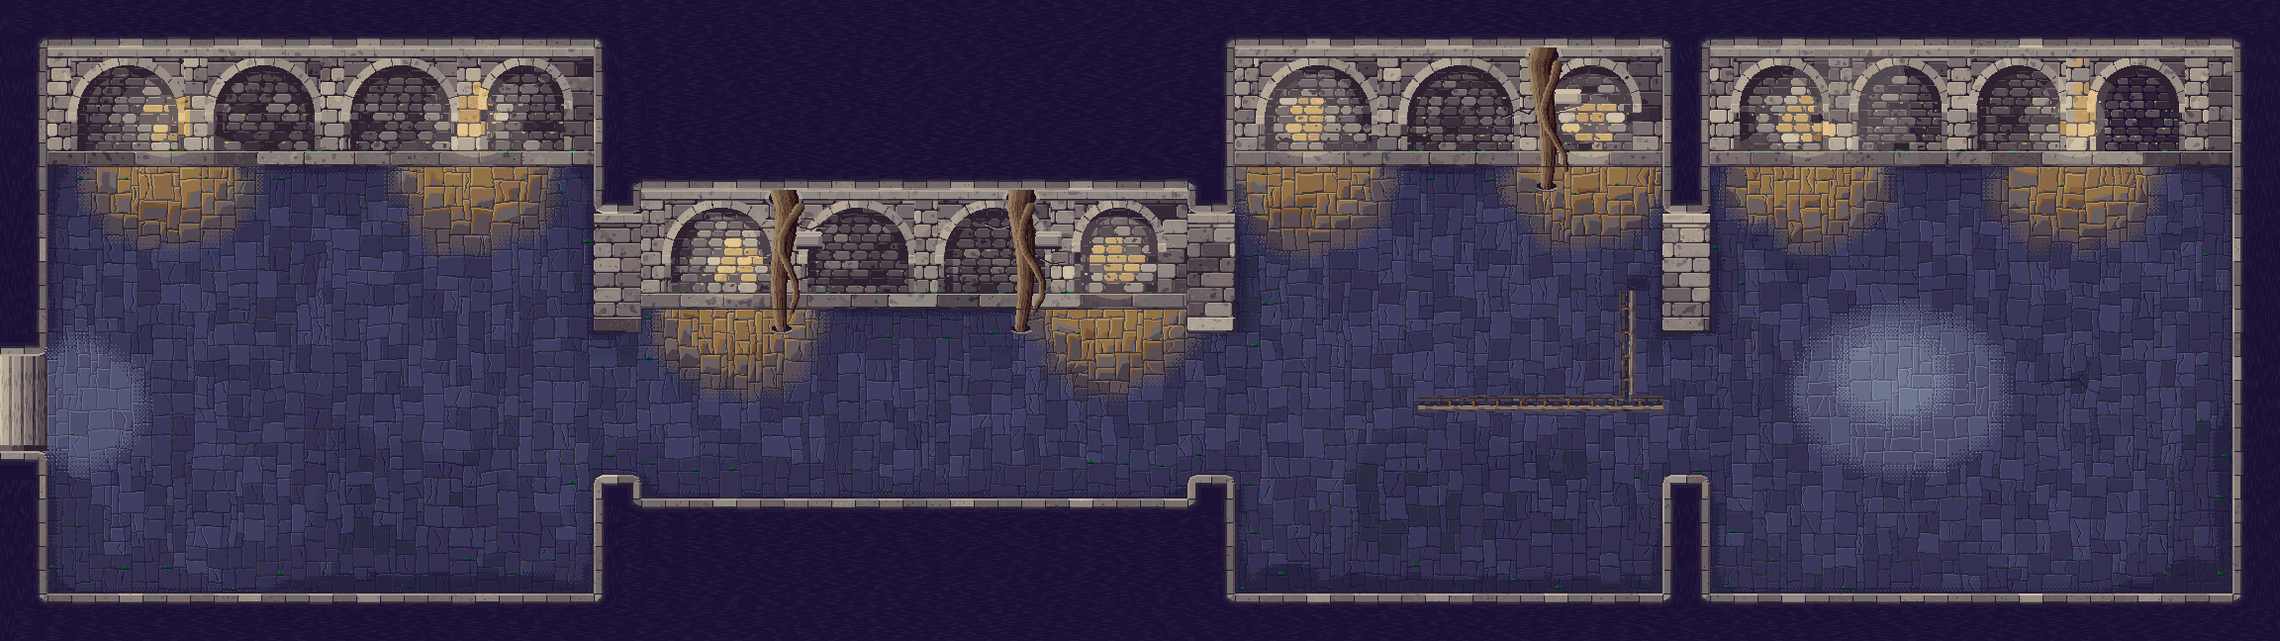
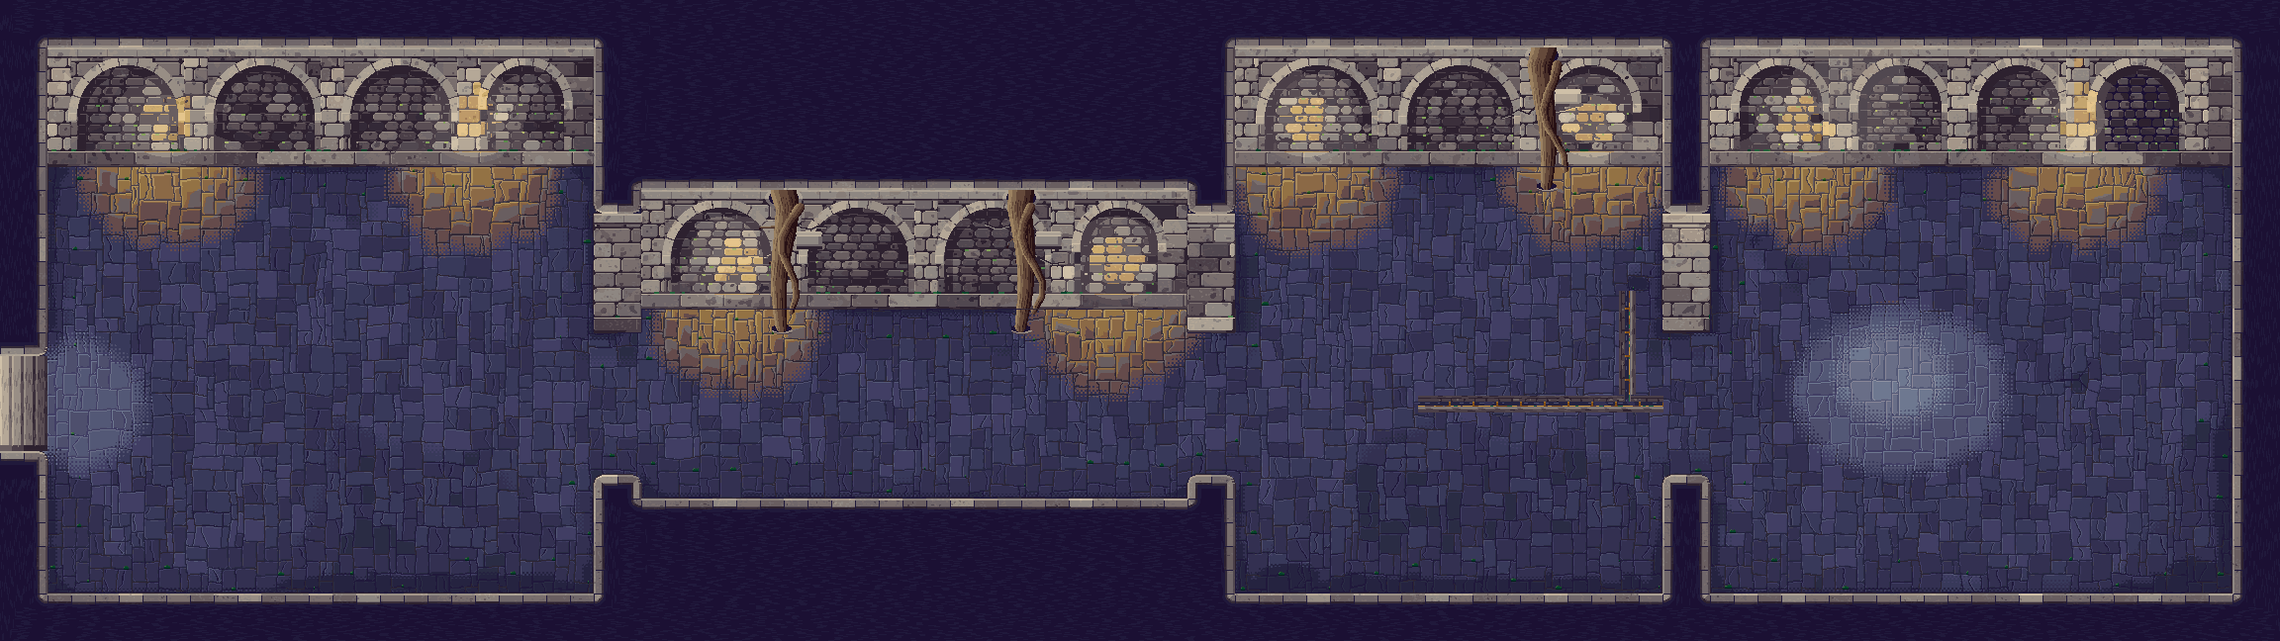
Undercroft round 10: lamplit_dusk middle band, kerb edge in four steps, C-8 lift split (calm guard stopped)
Claude A's rulings on round 9's three stops.

- G-38 (approved): lamplit_dusk, #654B4B (OKLCH 0.441 / 0.035 / 19), one
  named-only tone of lamplit's (kind sibling-tone:lamplit: its rule ramp, no
  edge, no siblings, not a family), added to house_palette.py,
  house-palette.json and the native palette (NAMED_ONLY), noted in
  house-style.md. The painter uses tone 3 only, for the middle band's bodies
  (rung 3, and rung 4's warm sibling) and rung 4's arrises. Middle band
  (0.65 to 1.05 H): median C 0.035 at every torch; the band means walk 61,
  53, 43, 37, 21, 350, 318, 293 below torch 1, per-band median C 0.031 or
  more. The pilot golden changes its manifest hash only; the Thornback's
  pictures are byte-identical (manifest hash only); art-repro passes.
- C-8: raster.lone_split also counts as copied a texel whose code is the
  ground's at the same place on the same ramp, the record's ground_lift
  tones up. channel_lit: own 0.99 % (88 of 8,863 interior texels), copied
  0.06 %; declared copies_ground with ground_lift 1. check:kit's drawn
  villages now pass.
- North kerb: the lit top edge steps lamplit_warm 4, lamplit 4,
  lamplit_cool 4, then its own tone; its commonest colour is 27 to 33 %.
- The calm guard is unchanged: on Claude A's residual measure every
  must-fail fixture passes (round 4's rings 4.91, hatching 1.02, round 5's
  pool 4.09 and shade 1.50, round 6's rug 3.72, against a limit of 6.96 or
[…]

diff --git a/scripts/review/test_undercroft_craft.py b/scripts/review/test_undercroft_craft.py
@@ -339,32 +339,35 @@ class RealFloorTint(unittest.TestCase):
             (self.assertEqual if name == 'r9' else self.assertGreater)(n, 0, name)
 
     def test_the_lit_kerb_keeps_its_marks(self):
-        # G-36 (round 9): under each cup the kerb is lit in steps that keep its own marks, never one flat code: its
-        # commonest colour at most 45 % of the strip (round 7, unlit: 22 to 43 %) and the lamp's colour on at most 35 %.
-        # Round 8's kerb by torch 8 was one tan code over 93 % of it
+        # G-36 (round 9; Claude A's round 10 ruling): the kerb's lit top edge under each cup (the plinth's top row, 67
+        # texels) steps from the flame and keeps its marks: no colour over 35 % of it. (The plinth's face below keeps the
+        # painter's own drawing, which unlit already holds 34 to 58 % in one code.) Round 8's edge by torch 8 was one tan
+        # code over all of it
         for cx, foot in self._torches():
             with self.subTest(torch=cx):
-                top, lampy = _kerb_strip(self.painted[foot - 15:foot - 2, cx - 33:cx + 34])
-                self.assertLessEqual(top, 0.45)
-                self.assertLessEqual(lampy, 0.35)
+                self.assertLessEqual(_kerb_strip(self.painted[foot - 15:foot - 14, cx - 33:cx + 34])[0], 0.35)
         a = np.asarray(Image.open(os.path.join(FIXTURES, 'undercroft_r8_kerb_t8.png')).convert('RGB'))
-        top, lampy = _kerb_strip(a[13:26, 7:74])
-        self.assertFalse(top <= 0.45 and lampy <= 0.35, (top, lampy))
+        self.assertGreater(_kerb_strip(a[13:14, 7:74])[0], 0.35)
 
-    def test_the_middle_band_guard_sees_round8(self):
-        # G-38: the pool's middle band (0.65 to 1.05 H below the wall's foot) at median OKLCH C 0.030 to 0.045. Round 8's
-        # was grey stone (C 0.018 to 0.022) and fails. The committed floor's check waits on Claude A's ruling on a
-        # mid-chroma warm tone (test_the_middle_band_is_warm_stone, skipped)
+    def test_the_middle_band_is_warm_stone(self):
+        # G-38 (Claude A's round 10 ruling): the pool's middle band (0.65 to 1.05 H below the wall's foot) at median OKLCH C
+        # 0.030 to 0.045, on lamplit_dusk; band by band (0.1 H) from the heart out to the shade its per-texel median C
+        # stays at 0.025 or more and the hue of its mean colour walks the short way, down through about 20 and 346,
+        # never by a neutral grey. Round 8's middle band was grey stone (C 0.018) and fails
+        for cx, foot in self._torches():
+            with self.subTest(torch=cx):
+                C, _ = _middle_band(self.painted, self.f['paint'], cx, foot)
+                self.assertTrue(0.030 <= C <= 0.045, C)
+                walk = _hue_walk(self.painted, self.f['paint'], cx, foot)
+                self.assertGreaterEqual(min(c for _, c, _ in walk), 0.025, walk)
+                hs = [hh for _, _, hh in walk]
+                steps = [((a - b + 180) % 360) - 180 for a, b in zip(hs, hs[1:])]
+                self.assertTrue(all(-5 < st_ < 90 for st_ in steps), walk)   # down the hue circle, the short way
+                warm = [i for i, hh in enumerate(hs) if 5 <= hh <= 40]
+                self.assertTrue(warm and any(hh >= 300 for hh in hs[warm[0]:]), walk)   # through about 20, then 346
         a, fl, cx, foot = _r8_torch1()
         C, _ = _middle_band(a, fl, cx, foot)
         self.assertLess(C, 0.030, C)
-
-    @unittest.skip('G-38 waits on Claude A\'s ruling on a named-only mid-chroma warm tone (round 9)')
-    def test_the_middle_band_is_warm_stone(self):
-        for cx, foot in self._torches():
-            with self.subTest(torch=cx):
-                C, hue = _middle_band(self.painted, self.f['paint'], cx, foot)
-                self.assertTrue(0.030 <= C <= 0.045, (C, hue))
 
     def _torches(self):
         plan = json.load(open(os.path.join(ROOT, 'game', 'data', 'plans', 'undercroft.json')))
@@ -521,6 +524,20 @@ def _middle_band(rgb, floor, cx, foot):
     m = floor & (Y >= foot) & (d >= 0.65) & (d < 1.05)
     a_, b_ = C * np.cos(np.radians(h)), C * np.sin(np.radians(h))
     return float(np.median(C[m])), float(np.degrees(np.arctan2(b_[m].mean(), a_[m].mean())) % 360)
+
+
+def _hue_walk(rgb, floor, cx, foot):
+    """(distance, per-texel median C, hue of the mean colour) for 0.1 H bands of floor from 0.55 to 1.15 H below the
+    wall's foot under the cup (G-38's walk from the heart to the shade)."""
+    L, C, h = _oklch(rgb)
+    Y, X = np.mgrid[0:L.shape[0], 0:L.shape[1]]
+    d = np.hypot(X - cx, Y - foot) / 74
+    a_, b_ = C * np.cos(np.radians(h)), C * np.sin(np.radians(h))
+    out = []
+    for c0 in np.arange(0.55, 1.16, 0.1):
+        m = floor & (Y >= foot) & (np.abs(d - c0) < 0.05)
+        out.append((round(float(c0), 2), float(np.median(C[m])), float(np.degrees(np.arctan2(b_[m].mean(), a_[m].mean())) % 360)))
+    return out
 
 
 def _kerb_strip(rgb):
@@ -802,6 +819,36 @@ class OverlayLoneSplit(unittest.TestCase):
         o, g = self._pics(0.015, 0.0)
         own, same = raster.lone_split(o, g, 0, 0)
         self.assertGreater(own, 0.01)
+
+    def _lifted(self, fam_o, tone_shift, n_lone=60):
+        """A ground of slate 1 with lone slate 2 marks, and an overlay of the ground lifted a tone (slate 2, marks slate 3)
+        whose marks are drawn on `fam_o` `tone_shift` tones over the ground's."""
+        from scripts.art.native import palette as PAL
+        g = np.zeros((60, 60, 4), np.uint8)
+        g[..., :3] = PAL.rgb('slate', 1)
+        g[..., 3] = 255
+        o = g.copy()
+        o[..., :3] = PAL.rgb('slate', 2)
+        cells = [(y, x) for y in range(4, 56, 3) for x in range(4, 56, 3)][:n_lone]
+        for y, x in cells:
+            g[y, x, :3] = PAL.rgb('slate', 2)
+            o[y, x, :3] = PAL.rgb(fam_o, 2 + tone_shift)
+        return Image.fromarray(o, 'RGBA'), Image.fromarray(g, 'RGBA')
+
+    def test_the_grounds_marks_lifted_a_rung_count_as_copied(self):
+        from scripts.art.native import raster
+        o, g = self._lifted('slate', 1)
+        own, same = raster.lone_split(o, g, 0, 0, lift=1)
+        self.assertLessEqual(own, 0.01)
+        self.assertGreater(same, 0.01)
+
+    def test_marks_of_another_family_or_lift_are_the_overlays_own(self):
+        from scripts.art.native import raster
+        for fam, shift in (('dusk', 1), ('slate', 2)):
+            with self.subTest(family=fam, shift=shift):
+                o, g = self._lifted(fam, shift)
+                own, same = raster.lone_split(o, g, 0, 0, lift=1)
+                self.assertGreater(own, 0.01)
 
     def test_the_grounds_own_marks_count_against_the_ground(self):
         from scripts.art.native import raster

diff --git a/scripts/art/native/undercroft.py b/scripts/art/native/undercroft.py
@@ -169,9 +169,9 @@ RIM_FADE = 16                    # round 9 (G-37): the one dithered band of a to
 STEP_LIP = 0.5                   # ... and how much longer a flag's top under its lit lip holds the light (rungs)
 # round 8 (G-32): a torch's pool by Eastward 06's fire bowls, as (half-width, depth) in H from the wall's foot
 # under the cup: the heart, the warm band's outer edge and the light's reach (1.1 to 1.4 H, at most 2.5 H2)
-TORCH_HEART = (0.97, 0.56)
+TORCH_HEART = (0.96, 0.555)
 TORCH_WARM = (1.12, 0.9)
-TORCH_REACH = (1.3, 1.16)
+TORCH_REACH = (1.3, 1.12)
 LAMPLIT_ALL = 0.47               # lamplit on every lit texel's top within this of the cup's foot (H) ...
 LAMPLIT_TOPS = 0.8               # ... worn tops under the lips, shallower outwards, to here ...
 LAMPLIT_LIPS = 0.95              # ... the lips alone to here, and none beyond
@@ -430,6 +430,9 @@ SHADE_LIP = {0: (('void', 3),) * 3, 1: (('slate_warm', 1), ('slate_cool', 2), ('
 SHADE_WORN = {0: (('void', 3),) * 3, 1: (('slate', 1), ('slate_warm', 1), ('slate_cool', 1)),
               2: (('slate_warm', 1), ('slate_cool', 2), ('void', 4))}      # a lip worn down, half its catch-light
 SHADE_SE = {0: (('void', 1),) * 3, 1: (('void', 3), ('void', 3), ('void', 3)), 2: (('void', 3), ('slate', 1), ('void', 3))}
+# round 10 (G-38, Claude A's ruling): the middle band's bodies and arrises take lamplit_dusk, the lamp's dim light on
+# stone (#654B4B, OKLCH 0.441 / 0.035 / 19, one named-only tone of lamplit's), so the pool walks from gold through a
+# warm mauve to the violet shade, never through a neutral grey.
 # under a torch (round 8, G-32): the light lifts the stone a rung a band and warms it, band by band from the
 # shade inwards: rung 3 the in-between band (stone 1 and its siblings, OKLab L 0.41 to 0.44), rung 4 the warm band
 # (stone_cool 2 / stone_warm 1, 0.44 to 0.49, its lips and the crests under them a tone up), rung 5 the heart
@@ -438,14 +441,14 @@ SHADE_SE = {0: (('void', 1),) * 3, 1: (('void', 3), ('void', 3), ('void', 3)), 2
 # colour (lamplit, a glow sibling of lamp at the same tone, a touch lighter) is laid over them afterwards by
 # each texel's distance from the cup (LAMPLIT_ALL, LAMPLIT_TOPS, LAMPLIT_LIPS), never on a joint or an arris and
 # never against the slate shade.
-WARM = {3: (('stone', 1), ('stone_warm', 1), ('stone_cool', 1)),
-        4: (('stone_cool', 2), ('stone_warm', 1), ('stone_cool', 2)),
+WARM = {3: (('lamplit_dusk', 3), ('lamplit_dusk', 3), ('lamplit_dusk', 3)),
+        4: (('stone_cool', 2), ('lamplit_dusk', 3), ('stone_cool', 2)),
         5: (('stone_warm', 2), ('stone', 2), ('stone_warm', 2))}
 WARM_LIP = {3: (('stone_cool', 2), ('stone_cool', 2), ('stone_warm', 1)),
             4: (('stone_warm', 2), ('stone', 2), ('stone_warm', 2)),
             5: (('stone_warm', 3), ('stone', 3), ('stone_warm', 3))}
 WARM_CREST = {4: (('stone', 2), ('stone_cool', 2), ('stone', 2)), 5: (('stone_warm', 3), ('stone', 3), ('stone_warm', 3))}
-WARM_SE = {3: (('soot', 2), ('stone_cool', 1), ('soot', 2)), 4: (('stone_cool', 1), ('soot', 2), ('stone_cool', 1)),
+WARM_SE = {3: (('soot', 2), ('stone_cool', 1), ('soot', 2)), 4: (('lamplit_dusk', 3), ('soot', 2), ('lamplit_dusk', 3)),
            5: (('stone_cool', 2), ('stone', 1), ('stone_cool', 2))}
 WARM_JOINT = {3: ('stone_cool', 0), 4: ('soot', 2), 5: ('stone_cool', 1)}
 # under the skylight and at the hatch: daylight on the slate ramps
@@ -3104,17 +3107,18 @@ def build(plan: dict, out_dir: str, preview: str | None = None, fields: dict | N
         m_ = mid_[wlab] & wb & np.isin(cv // 8, [FI['stone'], FI['stone_cool']])
         cv[m_] = warmer[cv[m_] // 8] * 8 + cv[m_] % 8
         # round 9 (G-35, G-36): only the torch's own kerb, and only its lit top edge (the plinth's top row, drawn at
-        # tone 4), in steps falling off from the flame and gone by 0.8 H: lamplit 4 under the cup, then its
-        # cool sibling, then the warm stone; the kerb's blocks below take the light as the wall's blocks do
+        # tone 4), in steps falling off from the flame and gone by 0.8 H: lamplit 4's warm sibling under the cup, then
+        # lamplit 4, then its cool sibling, then the kerb's own tone (round 10: no one code over 35 % of the edge)
         fy_ = q(ty - TORCH_LIFT - 7)
         dfl_ = np.hypot(XX - cx_, YY - fy_)
         ke = kerb & (YY >= q(ty) - q(5) - 1) & (YY <= q(ty) - q(5) + 1) & (pre_light % 8 >= 4) & (pre_light % 8 < 6) & \
             np.isin(pre_light // 8, stone_f) & (cv >= 0) & ~edge_tone & (dfl_ < 0.8 * 74 * D / 3)
         adx = np.abs(XX - cx_)
-        k1, k2, k3 = ke & (adx < WALL_HOT / 2), ke & (adx >= WALL_HOT / 2) & (adx < WALL_HOT), ke & (adx >= WALL_HOT) & (adx < WALL_NEAR)
-        cv[k1] = FI['lamplit'] * 8 + 4
-        cv[k2] = FI['lamplit_cool'] * 8 + 4
-        cv[k3] = FI['stone_warm'] * 8 + np.maximum(cv[k3] % 8, 4)
+        e1, e2, e3 = 7 * D / 3, 14 * D / 3, 23 * D / 3                 # (texels at density 3)
+        k1, k2, k3 = ke & (adx < e1), ke & (adx >= e1) & (adx < e2), ke & (adx >= e2) & (adx < e3)
+        cv[k1] = FI['lamplit_warm'] * 8 + 4
+        cv[k2] = FI['lamplit'] * 8 + 4
+        cv[k3] = FI['lamplit_cool'] * 8 + 4
         # the kerb's face under its lit edge, texel by texel by its distance from the flame, each texel a sibling
         # warmer (a tone up nearest), so the kerb's grain, chips and joints keep their steps
         kb = kerb_rows & (YY >= q(ty) - q(5)) & ~ke & np.isin(wall_k // 8, stone_f) & (wall_k % 8 >= 1) & (wall_k % 8 < 6)

diff --git a/scripts/art/native/raster.py b/scripts/art/native/raster.py
@@ -379,11 +379,26 @@ def lone_share(img: Image.Image) -> float:
     return float(lone[er].mean()) if er.any() else 0.0
 
 
-def lone_split(img: Image.Image, ground: Image.Image, x0: int, y0: int) -> tuple:
-    """A floor overlay's lone pixels in two parts (Claude A's C-8 ruling, round 9): the shares of its interior
-    that are lone and identical to the ground at the same place (the floor's own marks, judged by the ground's
-    limit), and lone and its own (judged by a drawn picture's limit). (x0, y0) is the overlay's top left on the
-    ground."""
+def _house_codes(key):
+    """House palette codes (family * 8 + tone) for packed RGB keys, -1 where a colour is not a house tone."""
+    from . import palette as PAL
+    if not hasattr(_house_codes, 'lut'):
+        lut = {}
+        for f, i in PAL.FI.items():
+            for t in range(6):
+                r, g, b = PAL.rgb(f, t)
+                lut.setdefault(r * 65536 + g * 256 + b, i * 8 + t)
+        _house_codes.lut = lut
+    lut = _house_codes.lut
+    u, inv = np.unique(key, return_inverse=True)
+    return np.array([lut.get(int(k), -1) for k in u], np.int64)[inv].reshape(key.shape)
+
+
+def lone_split(img: Image.Image, ground: Image.Image, x0: int, y0: int, lift: int = 0) -> tuple:
+    """A floor overlay's lone pixels in two parts (Claude A's C-8 rulings, rounds 9 and 10): the shares of its
+    interior that are lone and copied from the ground (identical to the ground at the same place, or the ground's
+    own code on the same ramp `lift` tones up), judged by the ground's limit, and lone and its own, judged by a drawn
+    picture's limit. (x0, y0) is the overlay's top left on the ground."""
     a = np.asarray(img.convert('RGBA')).astype(np.int64)
     key = a[..., 0] * 65536 + a[..., 1] * 256 + a[..., 2]
     key[a[..., 3] == 0] = -1
@@ -402,6 +417,9 @@ def lone_split(img: Image.Image, ground: Image.Image, x0: int, y0: int) -> tuple
         sub = ga[ys:ye, xs:xe]
         g[ys - y0:ye - y0, xs - x0:xe - x0] = sub[..., 0] * 65536 + sub[..., 1] * 256 + sub[..., 2]
     same = key == g
+    if lift:
+        co, cg = _house_codes(key), _house_codes(g)
+        same |= (co >= 0) & (cg >= 0) & (co // 8 == cg // 8) & (co % 8 == cg % 8 + lift) & (cg % 8 + lift <= 5)
     n = float(er.sum())
     return float((lone & er & ~same).sum() / n), float((lone & er & same).sum() / n)
 

diff --git a/scripts/art/native/check.py b/scripts/art/native/check.py
@@ -159,7 +159,7 @@ def villages() -> list:
                 # a floor overlay whose record declares it copies the ground (Claude A's C-8 ruling, round 9): its
                 # texels identical to the ground at the same place count against the ground's limit, its own
                 # texels against the drawn pictures' limit
-                own, same = raster.lone_split(img, *over)
+                own, same = raster.lone_split(img, *over[:3], lift=over[3])
                 if own > LONE_MAX:
                     bad.append(f'{plan["id"]}/{name}: {100 * own:.2f} % lone pixels of its own (at most {100 * LONE_MAX:.0f} %; '
                                f'{100 * same:.2f} % more are the ground\'s own)')
@@ -174,14 +174,17 @@ def villages() -> list:
 
 
 def overlay_on_ground(zone: str, name: str, kit: dict, zdir: str):
-    """(ground image, x0, y0) for a zone picture whose catalogue record declares `"copies_ground": true` (a floor
-    overlay drawn from the ground's own texels) and whose kit.json object places it; else None."""
+    """(ground image, x0, y0, lift) for a zone picture whose catalogue record declares `"copies_ground": true` (a
+    floor overlay drawn from the ground's own texels, `"ground_lift"` tones up on their own ramp) and whose kit.json
+    object places it; else None."""
     from PIL import Image
     rec = os.path.join(ROOT, 'art', 'catalogue', zone, name[:-4] + '.json')
     try:
         with open(rec) as fh:
-            if not json.load(fh).get('copies_ground'):
-                return None
+            r = json.load(fh)
+        if not r.get('copies_ground'):
+            return None
+        lift = int(r.get('ground_lift', 0))
     except (OSError, ValueError):
         return None
     obj = [o for o in kit.get('objects', []) if o.get('png') == name]
@@ -189,7 +192,7 @@ def overlay_on_ground(zone: str, name: str, kit: dict, zdir: str):
     if not obj or not os.path.exists(gp):
         return None
     o = obj[0]
-    return Image.open(gp), int(o['foot'][0] + o['offset'][0]), int(o['foot'][1] + o['offset'][1])
+    return Image.open(gp), int(o['foot'][0] + o['offset'][0]), int(o['foot'][1] + o['offset'][1]), lift
 
 
 def crowns() -> list:

diff --git a/scripts/art/house_palette.py b/scripts/art/house_palette.py
@@ -96,6 +96,9 @@ BASES = {
     'glowflora': ('glow', '#36D0B0'),
     # a glow's light on a surface: drawn by the surface rule (it lights stone, it is not a light), named only
     'lamplit':   ('sibling:lamp', '#AA8A5C'),       # the lamp's light on stone: the Undercroft's torchlit floor and walls (Claude A, round 7; round 8: C 0.074, so its tone 2 is Eastward 06's floor at a fire, C 0.066 to 0.075)
+    # the lamp's dim light on stone where the pool fades (Claude A's G-38 ruling, round 9): one named-only tone of
+    # lamplit's, between stone_warm 1 and lamplit_cool 1, for the Undercroft's middle band; a tone, not a family
+    'lamplit_dusk': ('sibling-tone:lamplit', '#654B4B'),
 }
 
 # A cast shadow steps the ground this many tones down its own ramp, so it stays on the
@@ -234,6 +237,10 @@ def build() -> dict:
     for name, (kind, body) in BASES.items():
         if kind == 'glow':
             ramps[name] = glow_ramp(body)
+            kinds[name] = kind
+            continue
+        if kind.startswith('sibling-tone:'):      # one named tone (tone 3 of its rule ramp): no edge, no siblings
+            ramps[name] = ramp(body)
             kinds[name] = kind
             continue
         airless = kind == 'accent:moon'

diff --git a/scripts/art/native/palette.py b/scripts/art/native/palette.py
@@ -80,11 +80,13 @@ FAMS = ['crag', 'crag_warm', 'crag_cool', 'grass', 'grass_warm', 'grass_cool', '
         'sand_cool', 'clay', 'clay_cool', 'iron', 'lamp', 'soot', 'ash', 'void', 'lava', 'fox', 'ashlar',
         'ashlar_warm', 'berry_cool', 'sky_cool', 'brass_warm', 'dusk_cool',
         # appended for the Undercroft's torchlit floor (round 6, G-24): existing codes keep their numbers
-        'lamplit', 'lamplit_warm', 'lamplit_cool']
+        'lamplit', 'lamplit_warm', 'lamplit_cool',
+        # appended for the Undercroft's middle band (round 10, G-38): one named-only tone of lamplit's
+        'lamplit_dusk']
 FI = {n: i for i, n in enumerate(FAMS)}
 # families a painter names on purpose and nearest-colour mapping never picks (lamplit, the lamp's light on
 # stone: the Undercroft's torchlit floor and walls), so adding them moves no other picture's colours
-NAMED_ONLY = ('lamplit', 'lamplit_warm', 'lamplit_cool')
+NAMED_ONLY = ('lamplit', 'lamplit_warm', 'lamplit_cool', 'lamplit_dusk')
 PICKABLE = np.array([n not in NAMED_ONLY for n in FAMS for _ in range(8)])
 
 LUT = np.zeros((len(FAMS) * 8, 3), np.uint8)

diff --git a/scripts/review/assets.py b/scripts/review/assets.py
@@ -332,8 +332,11 @@ def record(report: dict, reviewer: dict | None = None) -> str:
     rec['reviewer'] = reviewer or kept_reviewer(p, report['sha256']) or dict(PENDING)
     try:                                # a floor overlay's declaration that it copies the ground (C-8) is kept
         with open(p) as fh:
-            if json.load(fh).get('copies_ground'):
+            old_ = json.load(fh)
+            if old_.get('copies_ground'):
                 rec['copies_ground'] = True
+                if 'ground_lift' in old_:
+                    rec['ground_lift'] = old_['ground_lift']
     except (OSError, ValueError):
         pass
     rec['findings'] = [{k: f[k] for k in ('detector', 'severity', 'box', 'message', 'fix')} for f in report['findings']]

diff --git a/docs/vision/house-style.md b/docs/vision/house-style.md
@@ -26,7 +26,7 @@ What already agrees everywhere: light from the upper left (every module's mean i
 
 ### 1. One palette, made by one rule
 
-- **Families.** The palette is 38 families: 17 core (grass, leaf, earth, path, sand, water, stone, slate, timber, plaster, clay, iron, brass, berry, dusk, sky, snow) shared by every place, 16 setting accents (the 16th, `crag`, the highland's warm dark rock, proposed with the cliff core on 21 Oct: [cliff-core.md](cliff-core.md)), and 5 glows. Each is defined by one body colour in `scripts/art/house_palette.py` (`BASES`); everything else is computed. One glow has a sibling that is not a family of its own: `lamplit`, the lamp's light on stone (kind `sibling:lamp`, drawn by the surface rule, with its warm and cool siblings). It is named only, never picked by nearest-colour mapping, and lies only where a torch lights stone: the Undercroft's torchlit floor and walls (Claude A, round 7 of the Undercroft redraw). It is light, not a material, so it does not count among a setting's accents.
+- **Families.** The palette is 38 families: 17 core (grass, leaf, earth, path, sand, water, stone, slate, timber, plaster, clay, iron, brass, berry, dusk, sky, snow) shared by every place, 16 setting accents (the 16th, `crag`, the highland's warm dark rock, proposed with the cliff core on 21 Oct: [cliff-core.md](cliff-core.md)), and 5 glows. Each is defined by one body colour in `scripts/art/house_palette.py` (`BASES`); everything else is computed. One glow has a sibling that is not a family of its own: `lamplit`, the lamp's light on stone (kind `sibling:lamp`, drawn by the surface rule, with its warm and cool siblings). It is named only, never picked by nearest-colour mapping, and lies only where a torch lights stone: the Undercroft's torchlit floor and walls (Claude A, round 7 of the Undercroft redraw). It is light, not a material, so it does not count among a setting's accents. lamplit has one more named-only tone, `lamplit_dusk` (`#654B4B`, OKLCH 0.441 / 0.035 / 19, kind `sibling-tone:lamplit`), the lamp's dim light where a torch pool fades, between `stone_warm` 1 and `lamplit_cool` 1. It is used only by `undercroft.py`, for the middle band's flag bodies and arrises, and it is a tone, not a family (Claude A's G-38 ruling, round 10 of the Undercroft redraw).
 - **Six tones a ramp,** 0 (deepest shade) to 5 (highlight), body at 3. In OKLab lightness the tones sit at body -0.33, -0.215, -0.105, 0, +0.085, +0.16 (squeezed only where they would pass 0.21 or 0.965), so every material has the same contrast.
 - **Hue-shifted both ways.** Shade turns the hue up to 10 degrees towards dusk violet (OKLCH 298) and adds a small fixed violet tint; light turns it up to 10 degrees towards candle yellow (82) and adds a small warm tint. So even a grey has violet shade and warm highlights. Chroma eases off at both ends. The one exception is the moon (`accent:moon`): the violet in shade is light from the sky, and the moon has no sky, so its ramps keep their own hue in shade, take a tenth of the tint and fall to nearly black (tone 0 at OKLab 0.13 to 0.2).
 - **Siblings.** Each family has a warm and a cool sibling ramp (body turned 9 degrees towards lamp or dusk, a touch lighter or darker). A surface made of parts gives each part one of the three. This is how a wall gets Eastward's 20 or more tones in a patch while every colour stays on the palette.
